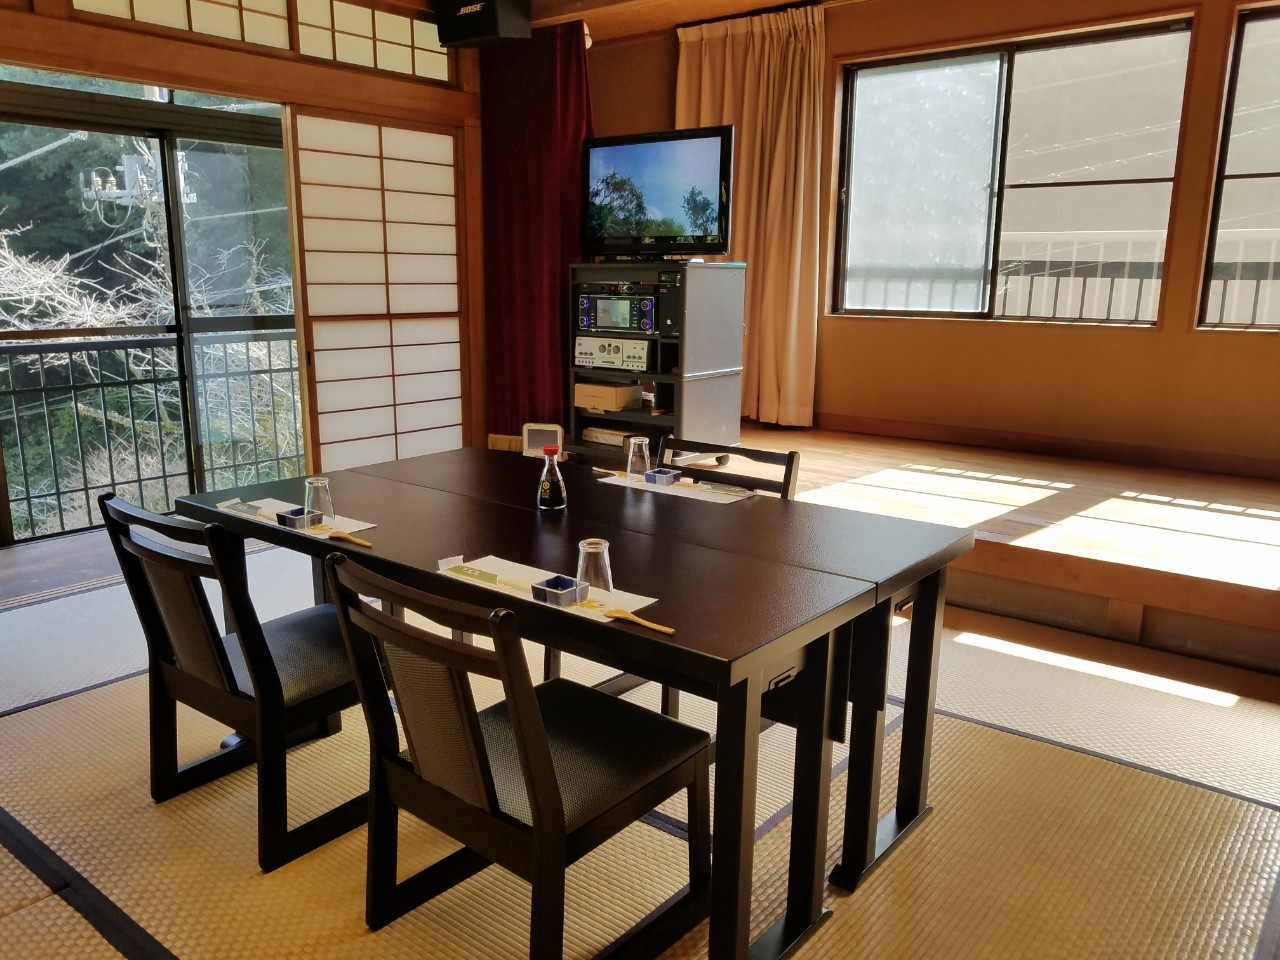
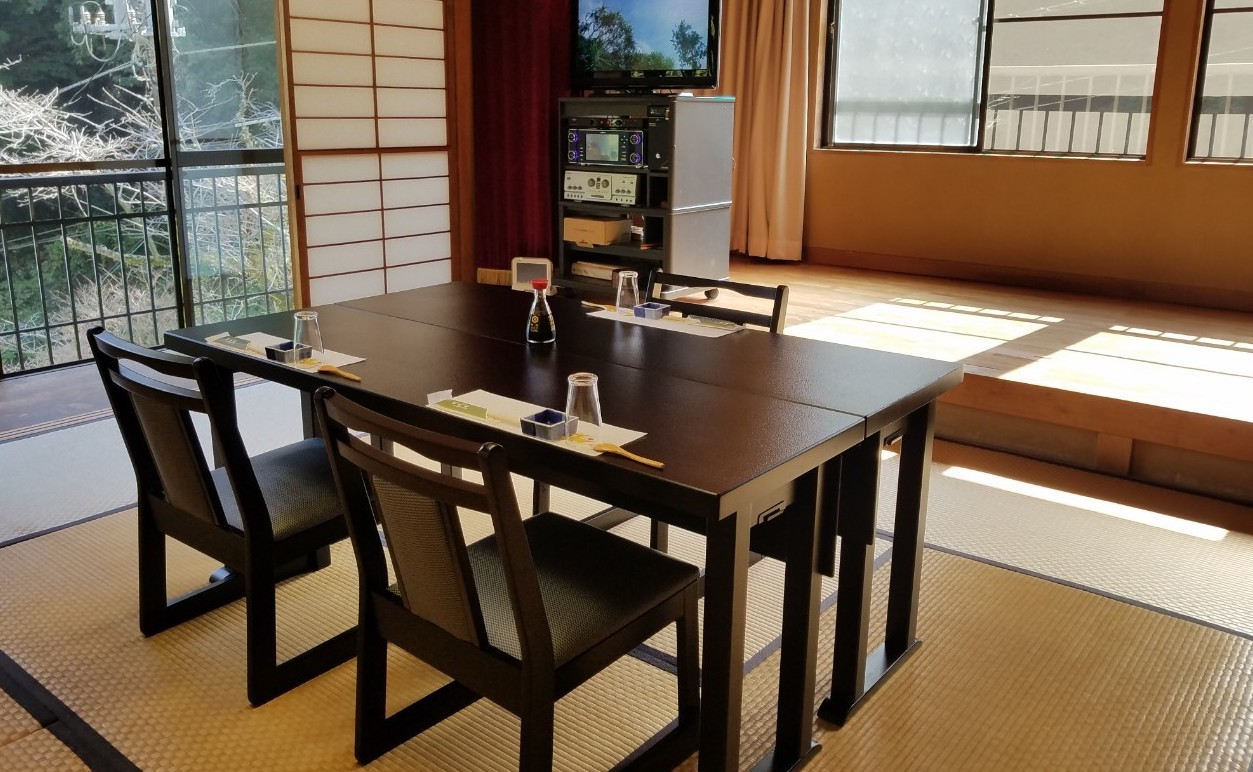
add:個室の項目追加

diff --git a/src/components/FoodMenu/Enkai.vue b/src/components/FoodMenu/Enkai.vue
@@ -2,20 +2,26 @@
     <div class="dinner-wrapper">
         <!--ページトップ部分-->
         <dinnerdetail :header="header" :datas="datas"></dinnerdetail>
-        <!--ページのメインの部分-->
-        <dinnermenu :datas="dinnermenu"></dinnermenu>
-        <!--
-        <div class="room">
-            <div class="room__title__container">
-                <h2 class="room__title">
-                    個室のご案内
-                </h2>
+        <div class="wrapper-50">
+            <h2 class="text-4xl">個室のご案内</h2>
+            <br>
+            <p>当店のお部屋は完全個室となっております。そのため、他のお客様を気にすることなく、ゆったりとお食事をお楽しみいただけます。</p>
+            <br>
+            <div class="my-4 pt-4">
+                <p class="text-xl mb-4 pb-4 border-bottom">2〜4人でご利用の場合のイメージ</p>
+                <img class="max-w-full" src="@/assets/images/zaisu/zaisu_four.jpg" alt="座椅子4人用">
             </div>
-            <div class="room__content__container">
-                <p>当店のお部屋は完全個室となっております。そのため、他のお客様を気にすることなく、ゆったりとお食事をお楽しみいただけます。また、カラオケも設置しております。</p>
+            <div class="my-4 pt-4"> 
+                <p class="text-xl mb-4 pb-4 border-bottom">6〜8人でご利用の場合のイメージ</p>
+                <img class="max-w-full" src="@/assets/images/zaisu/zaisu_eight.jpg" alt="座椅子8人用">
+            </div>
+            <div class="my-4 pt-4"> 
+                <p class="text-xl mb-4 pb-4 border-bottom">大人数でのご利用の場合のイメージ</p>
+                <img class="max-w-full" src="@/assets/images/zaisu/zaisu_large.jpg" alt="座椅子大人数用">
             </div>
         </div>
-        -->
+        <!--ページのメインの部分-->
+        <dinnermenu :datas="dinnermenu"></dinnermenu>
     </div>
 </template>
 <script>
@@ -97,6 +103,25 @@ export default {
 }
 </script>
 <style scoped lang="scss">
+@import '@/assets/variables.scss';
+.wrapper-50{
+    margin:50px auto;
+    width:50%;
+    @include lg(){
+         min-width:850px;
+    }
+    @include md(){
+        width:80%;
+         min-width:850px;
+    }
+    @include sp(){
+        width:90%;
+    }
+}
+.border-bottom {
+    border-bottom:1px solid rgba(0,0,0,0.3);
+    box-shadow:0 5px 10px -10px black;
+}
 .dinner-wrapper{
     overflow:hidden;
     width:100vw;
